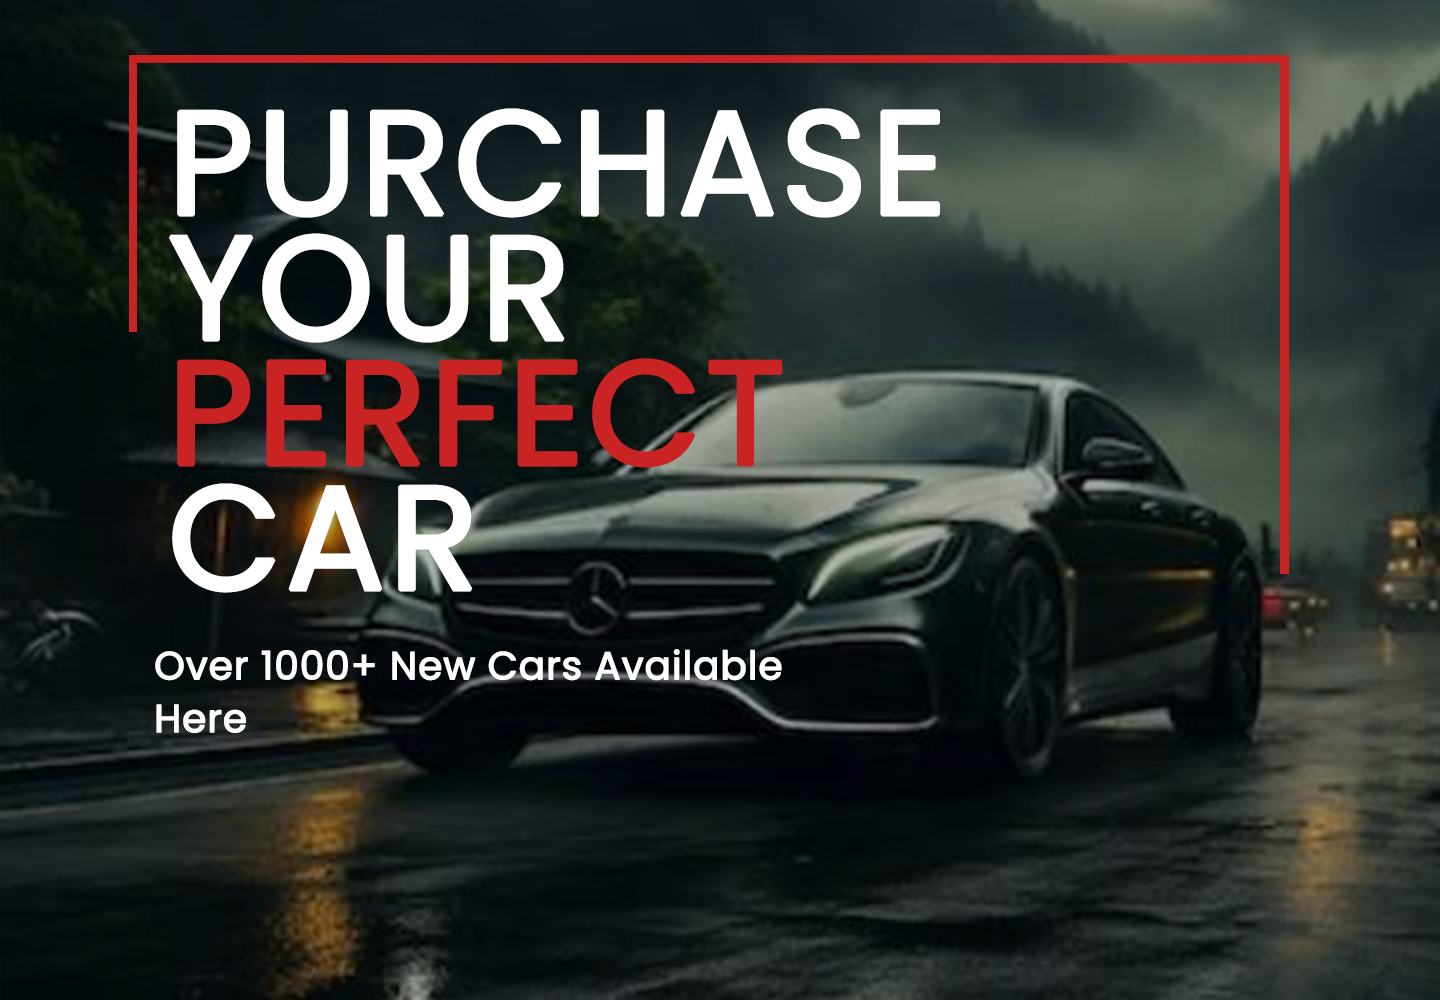
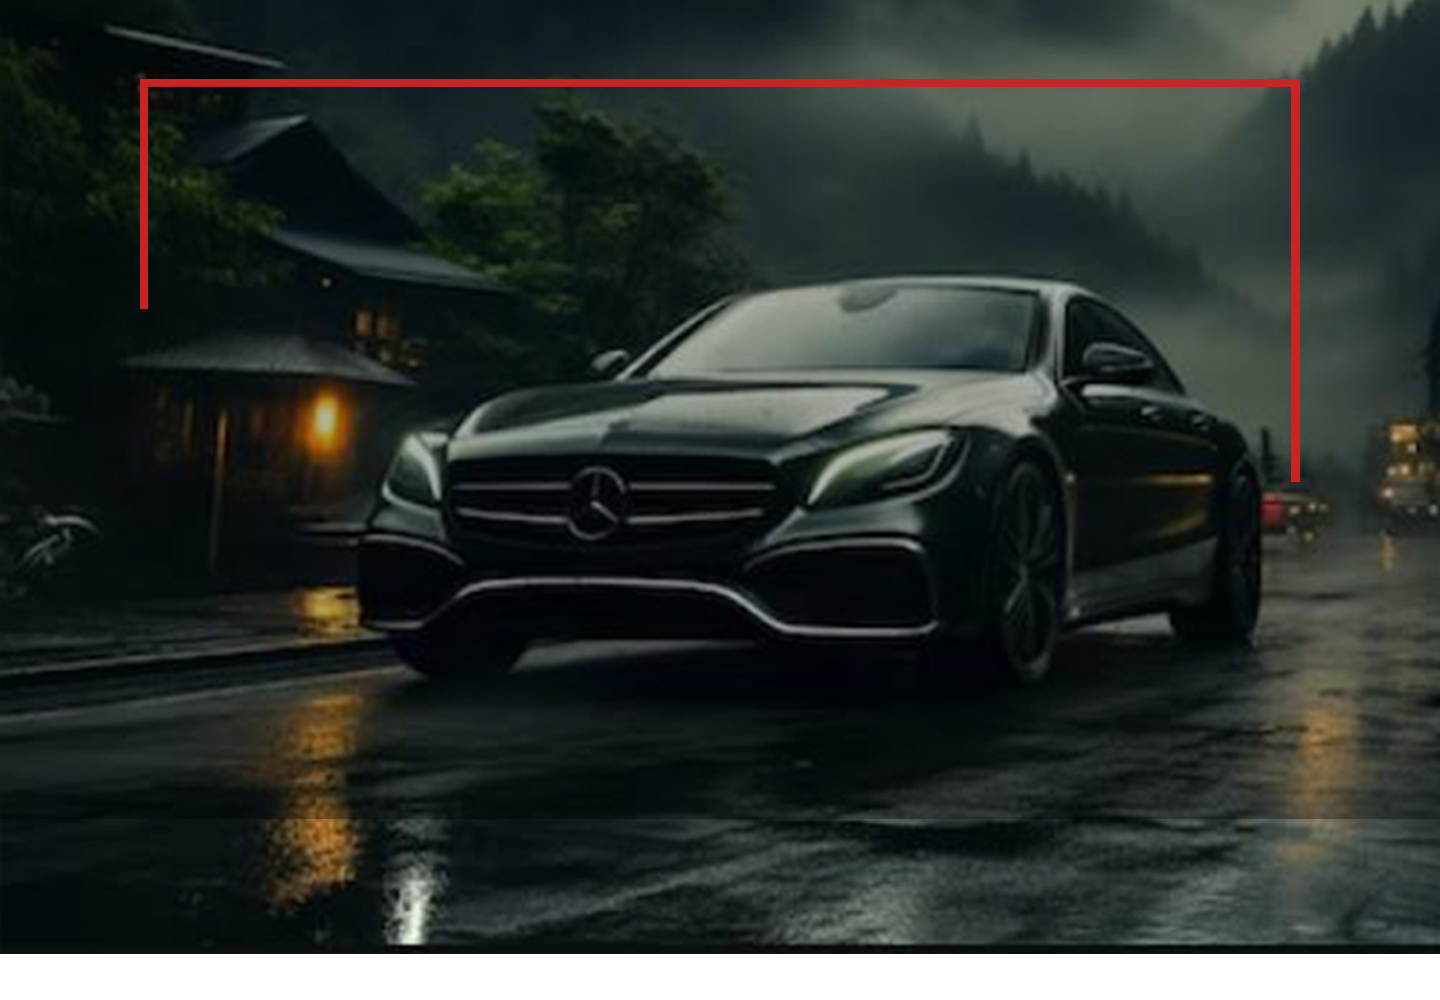
done with header

diff --git a/src/components/styles/Header.css b/src/components/styles/Header.css
@@ -1,13 +1,4 @@
- @import url('https://fonts.googleapis.com/css2?family=Poppins:wght@200;300;400;500;600;700&display=swap');
-
-
-* {
-    margin: 0;
-    padding: 0;
-    box-sizing: border-box;
-    font-family: "Poppins", sans-serif;
-}
-.Header{
+ /* .Header{
     background-image: url('header e commerce.jpg');
     background-repeat: no-repeat;
     height: 860px;
@@ -16,18 +7,76 @@
     display: flex;
     align-content: center;
     justify-content: center;
+} */
+.Header{
+    background-image: url('header e commerce3.jpg');
+    background-size: cover;
+    background-position: top;
+    background-repeat: no-repeat;
+    height: 750px;
+    display: flex;
+    flex-direction: column;
+    justify-content: space-around;
+    align-content: space-evenly;
+    flex-wrap: wrap; 
+}
+
+.h-main-title{
+    display: flex;
+    flex-direction: column;
+    right: 150px;
+    position: relative;
+    top: 90px;
+}
+.h-title{
+    color: #ffffff;
+font-size: 100px;
+font-style: normal;
+font-weight: 600;
+line-height: 130px;
+text-transform: uppercase;
+
+}
+.h-perfect{
+    color: #C92424;
+font-family: Poppins;
+font-size: 100px;
+font-style: normal;
+font-weight: 600;
+line-height: 100px;
+text-transform: uppercase;
+
+}
+
+.h-description{
+    color: #FFF;
+font-family: Poppins;
+font-size: 30px;
+font-style: normal;
+font-weight: 500;
+line-height: 52px; 
+right: 150px;
+    position: relative;
+}
+
+.h-buttons{
+  display: flex;
+  gap: 15px;
+  right: 150px;
+    position: relative;
+    bottom: 55px;
+   
 }
 
 .h-exploremore-btn{
     border-radius: 10px;
     background: #C92424;
     color: #FFF;
-    font-size: 28px;
+    font-size: 25px;
     font-style: normal;
     font-weight: 500;
-    line-height: 52px;
     cursor: pointer;
-    margin: 3%;
+    width: 200px;
 }
 
 .h-register-btn{
@@ -40,7 +89,7 @@
     line-height: 52px;
     cursor: pointer;
     background: none;
-    margin: 3%;
+    width: 200px;
 }
 
 @media (max-width: 766px){

diff --git a/src/components/mainComponents/Header.js b/src/components/mainComponents/Header.js
@@ -1,14 +1,24 @@
 import React from 'react';
 import '../styles/Header.css'
-import NavBar from './NavBar';
 
 const Header = () => {
   return (
     <div>
-      <NavBar/>
       <div className='Header'>  
+      <div className='h-main-title'>
+      <p className='h-title'>
+        PURCHASE YOUR   
+      </p>
+      <p className='h-perfect'>PERFECT</p>
+      <p className='h-title'>CAR</p>
+      </div>
+      <div className='h-description'>
+      Over 1000+ New Cars  Available Here
+      </div>
+      <div className='h-buttons'>
         <button className='h-exploremore-btn'>Explore More</button>
         <button className='h-register-btn'>Register</button>
+        </div>
         </div>
     </div>
   )

diff --git a/src/App.js b/src/App.js
@@ -4,13 +4,14 @@ import About from './components/mainComponents/AboutSection';
 import AboutPage from './components/mainComponents/AboutPage';
 import NavBar from './components/mainComponents/NavBar';
 import FAQ from './components/mainComponents/FAQsection';
+import Header from './components/mainComponents/Header';
 function App() {
   return (
     <Router>
       <div className="App">
         <Routes>
           {/* <Route path="/navbar" element={<NavBar/>} /> */}
-          <Route path="/" element={ <> <NavBar/><About /><FAQ/> </>} />
+          <Route path="/" element={ <> <NavBar/><Header/><About /><FAQ/> </>} />
           <Route path="/about" element={<AboutPage />} />
         </Routes>
       </div>
